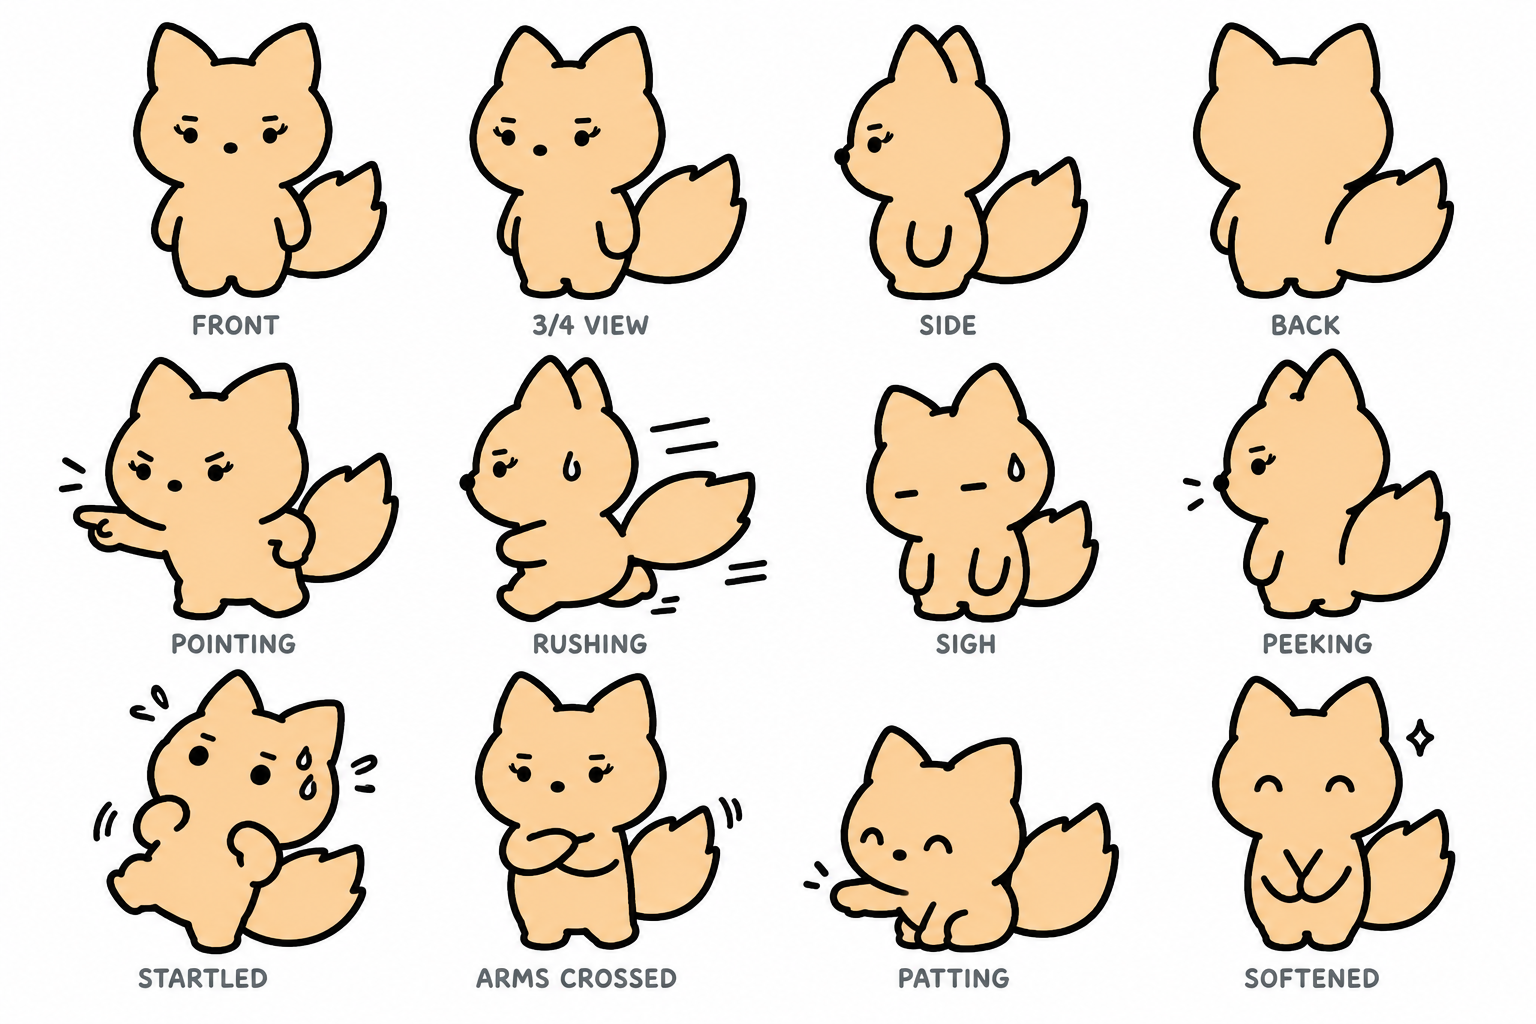
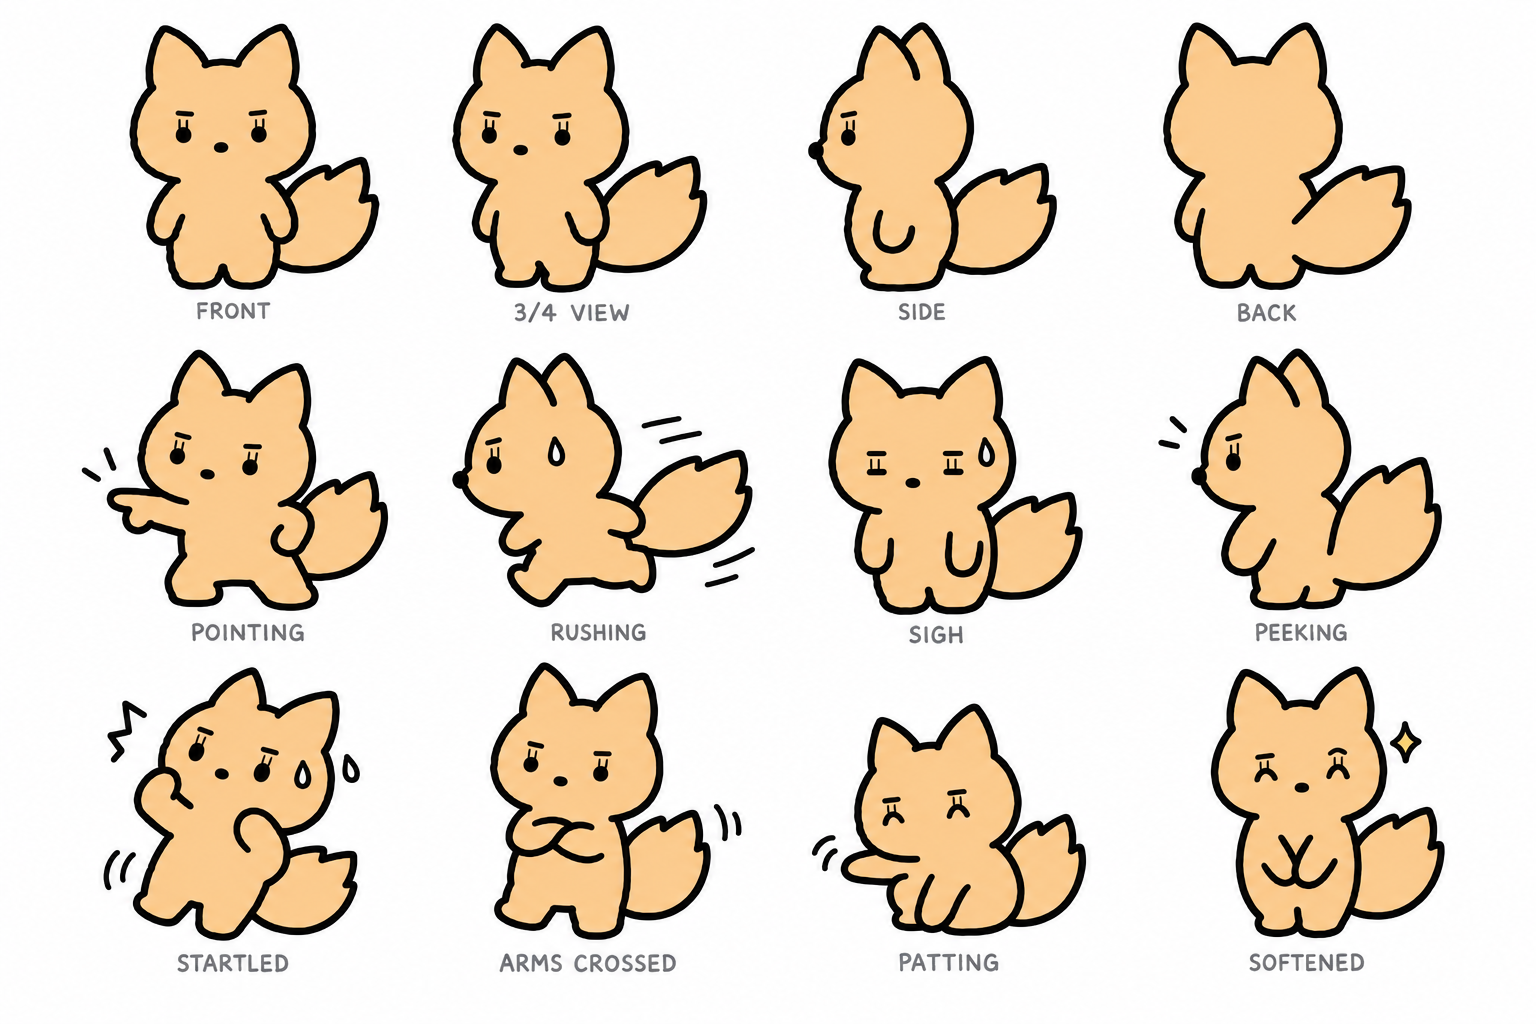
시트 7장 high 재생성: 미숙 세로 속눈썹, 두부 도망·탱자 끌기 한쪽 눈, 콩 꿀밤 외곽선, 밤톨 걷기 눈·뒷모습 귀 수정

diff --git a/assets/samples/cast-sheets.html b/assets/samples/cast-sheets.html
@@ -20,7 +20,7 @@
 <body>
 <main>
   <h1>확정 캐스트 시트 7장 + 크기 라인업</h1>
-  <p class="sub">gpt-image-2.5-sunburst · medium · 1536×1024 · 7인 전부 재제작: 성격별 기본 얼굴 + 턴어라운드 4 + 코믹 포즈 8. 제작은 정면·측면 선 샘플(<code>&lt;이름&gt;-line-sample.png</code>) 먼저 → 그 샘플 + 깜자 1장만 참조로 시트. 엑스트라 2장은 구판(high). 모든 시트는 소품 없음(망토 등은 에피소드별 지정).</p>
+  <p class="sub">gpt-image-2.5-sunburst · high · 1536×1024 · 7인 전부 재제작: 성격별 기본 얼굴 + 턴어라운드 4 + 코믹 포즈 8. 제작은 정면·측면 선 샘플(<code>&lt;이름&gt;-line-sample.png</code>) 먼저 → 그 샘플 + 깜자 1장만 참조로 시트. 엑스트라 2장은 구판. 모든 시트는 소품 없음(망토 등은 에피소드별 지정).</p>
 
   <h2>크기 라인업 (시트 FRONT 도를 잘라 합성, 생성 아님)</h2>
   <img src="../cast/lineup-all.png" alt="7인 크기 라인업">
@@ -34,7 +34,7 @@
   <p class="cap">기본 얼굴 = 점 눈 + 걱정 눈썹. 2행: 도망 · 녹아내림 · 점프 · 엿보기 · 3행: 90도 사과 · 구석 · 까치발 · 통곡 · <a href="dubu-sheet.html">단독 페이지</a> · 프롬프트 <a href="dubu-sheet-prompt.txt">dubu-sheet-prompt.txt</a></p>
   <h2>미숙 — 엄마 · 여우 · 1.2배</h2>
   <img src="misook-sheet.png" alt="미숙 시트">
-  <p class="cap">기본 얼굴 = 점 눈 + 낮은 일자 눈썹 + 위로 뻗은 속눈썹 2획. 2행: 삿대질 · 종종걸음 · 한숨 · 엿보기 · 3행: 놀람 · 팔짱 · 쓰다듬기 · 누그러짐 · 프롬프트 <a href="misook-sheet-prompt.txt">misook-sheet-prompt.txt</a></p>
+  <p class="cap">기본 얼굴 = 점 눈 + 낮은 일자 눈썹 + 눈 위 세로 직선 속눈썹 2획. 2행: 삿대질 · 종종걸음 · 한숨 · 엿보기 · 3행: 놀람 · 팔짱 · 쓰다듬기 · 누그러짐 · 프롬프트 <a href="misook-sheet-prompt.txt">misook-sheet-prompt.txt</a></p>
   <h2>덕수 — 아빠 · 사슴 · 1.2배</h2>
   <img src="deoksu-sheet.png" alt="덕수 시트">
   <p class="cap">기본 얼굴 = 대시 눈. 2행: 손 바쁨(앉아서) · 뒷모습 손 인사 · 각 잡힌 끄덕임 · 업어주기 · 3행: 놀람 · 잠 · 조용한 뿌듯함 · 기다림 · 프롬프트 <a href="deoksu-sheet-prompt.txt">deoksu-sheet-prompt.txt</a></p>

diff --git a/assets/samples/dubu-sheet.html b/assets/samples/dubu-sheet.html
@@ -18,7 +18,7 @@
 <body>
 <main>
   <h1>두부 캐릭터 시트 (확정 참조)</h1>
-  <p class="sub">gpt-image-2.5-sunburst · medium · 1536×1024 · $0.029 · 참조: 선 샘플(아래) + 깜자 1장 · 프롬프트: <a href="dubu-sheet-prompt.txt">dubu-sheet-prompt.txt</a></p>
+  <p class="sub">gpt-image-2.5-sunburst · high · 1536×1024 · $0.06 · 참조: 선 샘플(아래) + 깜자 1장 · 프롬프트: <a href="dubu-sheet-prompt.txt">dubu-sheet-prompt.txt</a></p>
   <img src="dubu-sheet.png" alt="두부 캐릭터 시트">
   <ul>
     <li>선은 매끈한 단색 펜선, 흔들림은 경로에만(얼룩·끊김 금지). 먹구름은 시트에 넣지 않음.</li>

diff --git a/assets/samples/make_cast_prompts.py b/assets/samples/make_cast_prompts.py
@@ -46,12 +46,12 @@ Row 3, comic reaction poses:
 CAST = {
 "misook": dict(
     who="a soft-orange fox named Misook",
-    side_note="one dot eye with its flat eyebrow stroke and its two tiny upward eyelash strokes visible",
+    side_note="one dot eye with its flat eyebrow stroke above and its two short straight vertical eyelash lines standing up from the top of the eye",
     design="""Misook design (identical in all figures):
 - soft orange #F6CA9E body, ONE solid color everywhere including face, ears, tail. No markings, no white chest, no dark ear tips, no dark paws
 - 2-head-tall potato body, stubby limbs, large pointed triangular ears, one big bushy tail curling up beside the body
-- DEFAULT FACE: two small black dot eyes set wide apart; two short straight black eyebrow strokes pressed low and flat just above the eyes (stern, in charge); and on EACH eye two tiny thin black eyelash strokes sticking UPWARD and slightly outward from the top outer edge of the eye (like two little ticks pointing up). One small dark dot nose. NO MOUTH, NO BLUSH, no ribbon, no clothes, no props
-- The flat eyebrows and the two upward eyelashes per eye appear in EVERY figure, even when the eyes change shape (dots, closed upward arcs, flat dashes, bigger round dots, ">.<")
+- DEFAULT FACE: two small black dot eyes set wide apart; two short straight black eyebrow strokes pressed low and flat just above the eyes (stern, in charge); and on EACH eye two short thin straight VERTICAL black lines standing straight up from the top edge of the eye, parallel to each other, not slanted, not curved (two little upright eyelash lines per eye, between the eye and the eyebrow). One small dark dot nose. NO MOUTH, NO BLUSH, no ribbon, no clothes, no props
+- The flat eyebrows and the two upright vertical eyelash lines per eye appear in EVERY figure, even when the eyes change shape (dots, closed upward arcs, flat dashes, bigger round dots, ">.<")
 - personality: the mom. Nags because she worries; scolds first, notices first. Brisk, capable, always moving""",
     row2="""POINTING (leaning forward, one arm stretched out pointing with a finger, other hand on hip, small motion lines by the pointing arm);
 RUSHING (seen from the side, hurrying forward with quick short steps, tail streaming behind, motion lines, one sweat drop);
@@ -96,7 +96,7 @@ SHRUG (both palms turned up at the sides, shoulders raised, head tilted, arc eye
     row3="""POP UP (popping up from the bottom edge of his space, only head and raised arms visible, eyes open as round dots, small motion lines);
 BORED (slouched sitting on the floor leaning back on both hands, eyes as flat dashes, tail limp);
 WHISPER (leaning sideways, one hand cupped beside the face, one eye an arc and the other a round dot, one tiny sparkle);
-BONKED (body tilted as if just hit lightly, eyes as ">.<", ears askew, three small sparkles circling above the head).""",
+BONKED (body tilted as if just hit lightly, eyes as ">.<", ears askew, three small stars floating above the head; the outline of the head and body stays solid, closed and continuous - the impact is shown only by the stars and the tilt, no broken or dented lines).""",
 ),
 "tangja": dict(
     who="a yellow duck named Tangja",
@@ -108,7 +108,7 @@ BONKED (body tilted as if just hit lightly, eyes as ">.<", ears askew, three sma
 - The glossy highlight eyes are her default. When a caption says so the eyes may become closed upward arcs (delight), bigger round dots (shock), or ">.<"
 - personality: the loud friend. Extroverted, nosy, bright, always excited, drags the shy hero outdoors. Big energy in a small body""",
     row2="""BOTH WINGS UP (jumping with both wings raised high, feet off the ground, glossy eyes, sparkles);
-DRAGGING (seen from the side, leaning far forward pulling hard on something off to the side with both wings gripping, feet dug in, motion lines);
+DRAGGING (seen from the side so only ONE eye is visible, leaning far forward pulling hard on something off to the side with both wings gripping, feet dug in, motion lines; the visible eye is a single round black dot with its white highlight, drawn normally);
 CHATTERING (leaning forward toward the viewer, both wings gesturing in the air, glossy eyes, several short motion lines around the head);
 POINTING FAR (one wing pointing up and out into the distance, other wing on the hip, glossy eyes, one sparkle).""",
     row3="""RUNNING HUG (running toward the viewer with both wings spread wide open, eyes as closed upward arcs, motion lines);
@@ -139,14 +139,14 @@ FIDGET (flippers rubbing together in front, eyes shifted sideways, body leaning 
     side_note="one dot eye inside its round glasses rim seen from the side as a thin circle, no temple arm going to the ear",
     design="""Bamtol design (identical in all figures):
 - warm brown #C9A582 body, ONE solid color everywhere including the face (no lighter face patch, no two-tone). The spikes are drawn ONLY as a zigzag outline around the back of the head and body; no lines or spikes drawn inside the body
-- 2-head-tall rounded body, stubby limbs, small rounded ears, no tail
+- 2-head-tall rounded body, stubby limbs, two small rounded ears at the top sides of the head (in the BACK view the same two small rounded ears sit at the top of the head, drawn as simple half-circles inside the zigzag spike outline), no tail
 - DEFAULT FACE: two small black dot eyes set wide apart, one small dark dot nose, and ROUND GLASSES: one thin black circular rim drawn around each eye, the two rims joined by one short bridge line over the nose. NOTHING ELSE - no temple arms, no pieces going to the ears, the rims simply sit on the face. Lenses are transparent (body color shows inside). NO MOUTH, NO BLUSH, no eyelashes, no clothes, no other props
 - The round glasses appear in EVERY figure, including side and 3/4 views (in profile the near rim is a thin circle on the face). Inside the rims the eyes may change: dots, closed upward arcs, flat dashes, bigger round dots
 - personality: the boyfriend. Prickly and blunt on the outside, soft on the inside. Makes plans, decides things for you, logical to a fault, secretly caring""",
     row2="""ARMS CROSSED (standing with arms crossed, chin slightly up, dot eyes behind the glasses);
 MAKING A POINT (one finger raised beside the head as if explaining a plan, other hand on hip, small motion lines by the finger);
 GLASSES PUSH (one hand pushing the bridge of the glasses up the nose, eyes as flat dashes, one small sparkle glinting on a rim);
-STRIDING (seen from the side, walking briskly with purpose, arms swinging, motion lines behind).""",
+STRIDING (seen from the side, walking briskly with purpose, arms swinging, motion lines behind; the one visible eye is a SOLID black dot inside its round rim, drawn as dark as every other eye on the sheet).""",
     row3="""CURLED BALL (rolled into a round ball on the floor with the zigzag spike outline all around, only the glasses and dot eyes showing at the front);
 STARTLED (leaning back, glasses tilted slightly askew on the face, eyes as bigger round dots, one sweat drop);
 THINKING (sitting on the floor, chin resting on one hand, elbow on knee, dot eyes behind the glasses, one very short line above the head);

diff --git a/assets/characters.md b/assets/characters.md
@@ -9,7 +9,7 @@
 | 요소 | 기준 |
 |---|---|
 | 비율 | 2등신. 감자형 몸통에 머리가 몸보다 큼. 팔다리는 짧은 돌기 |
-| 얼굴 | 코는 작은 점(조류는 부리), **입 없음, 볼터치 없음**, 리본 금지. 캐릭터별 **기본 얼굴** 고정 — 두부: 점 눈 + 걱정 눈썹 2획(안쪽 올라감) / 미숙: 점 눈 + 낮게 깔린 일자 눈썹 + 눈 바깥 위로 뻗은 속눈썹 2획 / 덕수: 대시 눈(무표정) / 콩: 웃는 호 눈 / 탱자: 하이라이트 있는 초롱초롱 눈 / 소라: 내리깐 점 눈 + 밀착한 날개 / 밤톨: 점 눈 + 브릿지만 있는 동그란 안경(귀걸이 없음). 눈썹·속눈썹·안경은 모든 도에 유지하고, 눈 모양은 감정에 따라 초롱초롱·`>.<`·호·대시로 바뀌어도 된다. 자세는 과장·코믹 허용, 컷마다 비율이 완벽히 같을 필요 없음 |
+| 얼굴 | 코는 작은 점(조류는 부리), **입 없음, 볼터치 없음**, 리본 금지. 캐릭터별 **기본 얼굴** 고정 — 두부: 점 눈 + 걱정 눈썹 2획(안쪽 올라감) / 미숙: 점 눈 + 낮게 깔린 일자 눈썹 + 눈 위로 세로 직선 속눈썹 2획 / 덕수: 대시 눈(무표정) / 콩: 웃는 호 눈 / 탱자: 하이라이트 있는 초롱초롱 눈 / 소라: 내리깐 점 눈 + 밀착한 날개 / 밤톨: 점 눈 + 브릿지만 있는 동그란 안경(귀걸이 없음). 눈썹·속눈썹·안경은 모든 도에 유지하고, 눈 모양은 감정에 따라 초롱초롱·`>.<`·호·대시로 바뀌어도 된다. 자세는 과장·코믹 허용, 컷마다 비율이 완벽히 같을 필요 없음 |
 | 선 | 검정, 굵기 불균일한 손그림 선, 닫힌 외곽선 |
 | 채색 | 플랫, 몸에 명암 없음. **바디 단색**, 무늬·반점·마커 없음. 식별은 실루엣(종)과 크기로만. 발밑에 납작한 연회색 타원 **접지 그림자 1개** (EP.03부터, EP.01·02는 없음) |
 | 배경 | 흰색. 소품 1~2개 |

diff --git a/docs/env-setup.md b/docs/env-setup.md
@@ -16,7 +16,7 @@ cp .env.example .env
 | `OPENAI_API_KEY` | 이미지 생성용. [platform.openai.com/api-keys](https://platform.openai.com/api-keys) 에서 발급 |
 | `IMAGE_MODEL` | `gpt-image-2.5-sunburst` (기본). `gpt-image-2.5-flare`는 같은 단가에 빠르기만 하므로 쓸 이유 없음. `gpt-image-1`은 2026-10-23 종료 |
 | `IMAGE_SIZE` | `1024x1536` — 모델이 지원하는 세로 사이즈. 4:5가 아니므로 **1024×1280으로 크롭 후 1080×1350 업스케일**해서 캐러셀에 넣는다 |
-| `IMAGE_QUALITY` | `low` / `medium` / `high` / `xhigh` / `max`. **전부 `medium`** (세로 ≈ $0.01/장). 표지·캐릭터 시트도 `high`를 쓰지 않는다 |
+| `IMAGE_QUALITY` | `low` / `medium` / `high` / `xhigh` / `max`. 컷 생성은 **`medium`** (세로 ≈ $0.01/장). 캐릭터 시트만 `high` (가로 ≈ $0.06/장) |
 | `OUTPUT_DIR` | 생성 결과 저장 루트 |
 
 ## 사용
